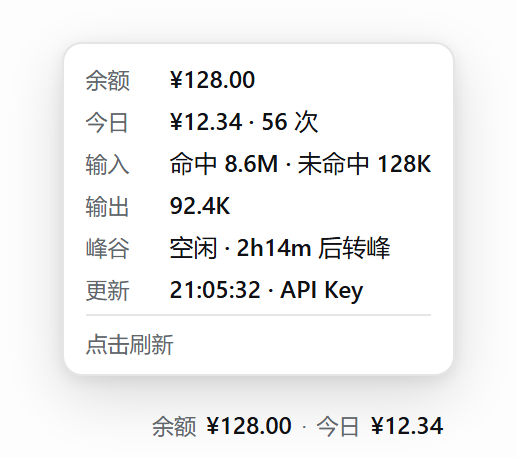
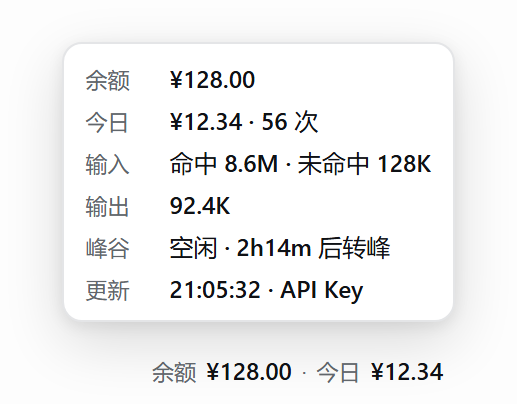
feat: drop the hover-card footer hint and refresh the sample preview

diff --git a/client.js b/client.js
@@ -230,12 +230,6 @@ window.__ModuleLoader__.load({
 				whiteSpace: 'normal',
 				color: 'var(--dsw-alias-state-error-primary)',
 			},
-			cardFooter: {
-				paddingTop: '6px',
-				borderTop: '1px solid var(--dsw-alias-border-l1)',
-				fontSize: '11px',
-				color: 'var(--dsw-alias-label-secondary)',
-			},
 		};
 
 		// --- placement --------------------------------------------------------
@@ -530,7 +524,7 @@ window.__ModuleLoader__.load({
 							cardNotes.map((note) =>
 								h('span', { key: note.key, style: note.error ? CSS.cardError : CSS.cardNote }, note.text),
 							),
-							h('span', { style: CSS.cardFooter }, refreshing ? '刷新中…' : '点击刷新'),
+							refreshing ? h('span', { key: 'refreshing', style: CSS.cardNote }, '刷新中…') : null,
 						)
 					: null,
 			);

diff --git a/CHANGELOG.md b/CHANGELOG.md
@@ -1,5 +1,11 @@
 # CHANGELOG
 
+## 0.2.2 — 2026-11-04
+
+- 移除悬停卡片底部的「点击刷新」提示行（点击刷新行为保留，刷新中显示「刷新中…」）。
+- README 精简为面向使用者的短版：删掉双口径表格、兼容性表、实现细节、隐私长列表等冗余段落。
+- 预览图按新卡片样式重新生成（示例数据）。
+
 ## 0.2.1 — 2026-11-04
 
 - 悬停改为自定义悬浮卡片：两列对齐、实时峰谷倒计时、错误/降级提示置底；移除「官方口径」说明行。

diff --git a/README.md b/README.md
@@ -21,7 +21,7 @@
 要求 DeepSeek Harness ≥ 0.2.1-rc.1（实测 0.2.1-rc.5）：
 
 ```bash
-dsh plugin --profile desktop add github:chipcats/dsh-sidebar-wallet#v0.2.1
+dsh plugin --profile desktop add github:chipcats/dsh-sidebar-wallet#v0.2.2
 ```
 
 把 `desktop` 换成你的 profile 名，装好后刷新页面即可。
